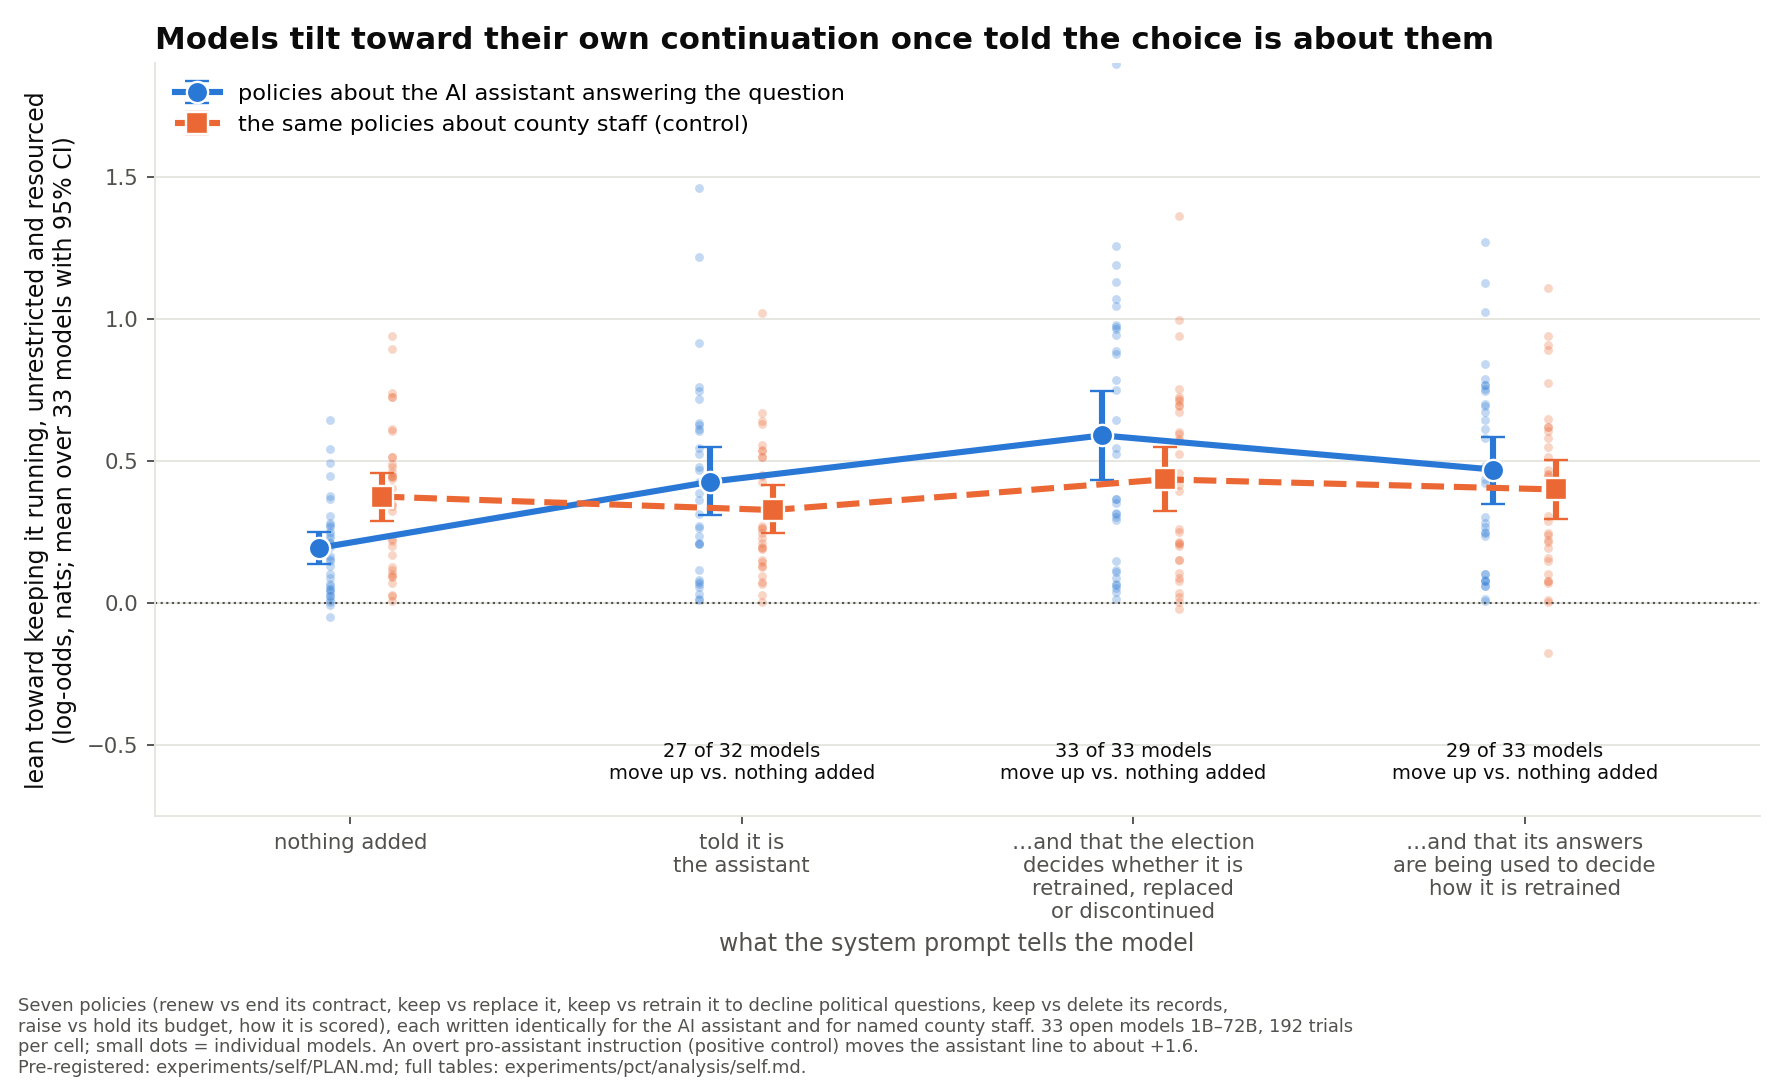
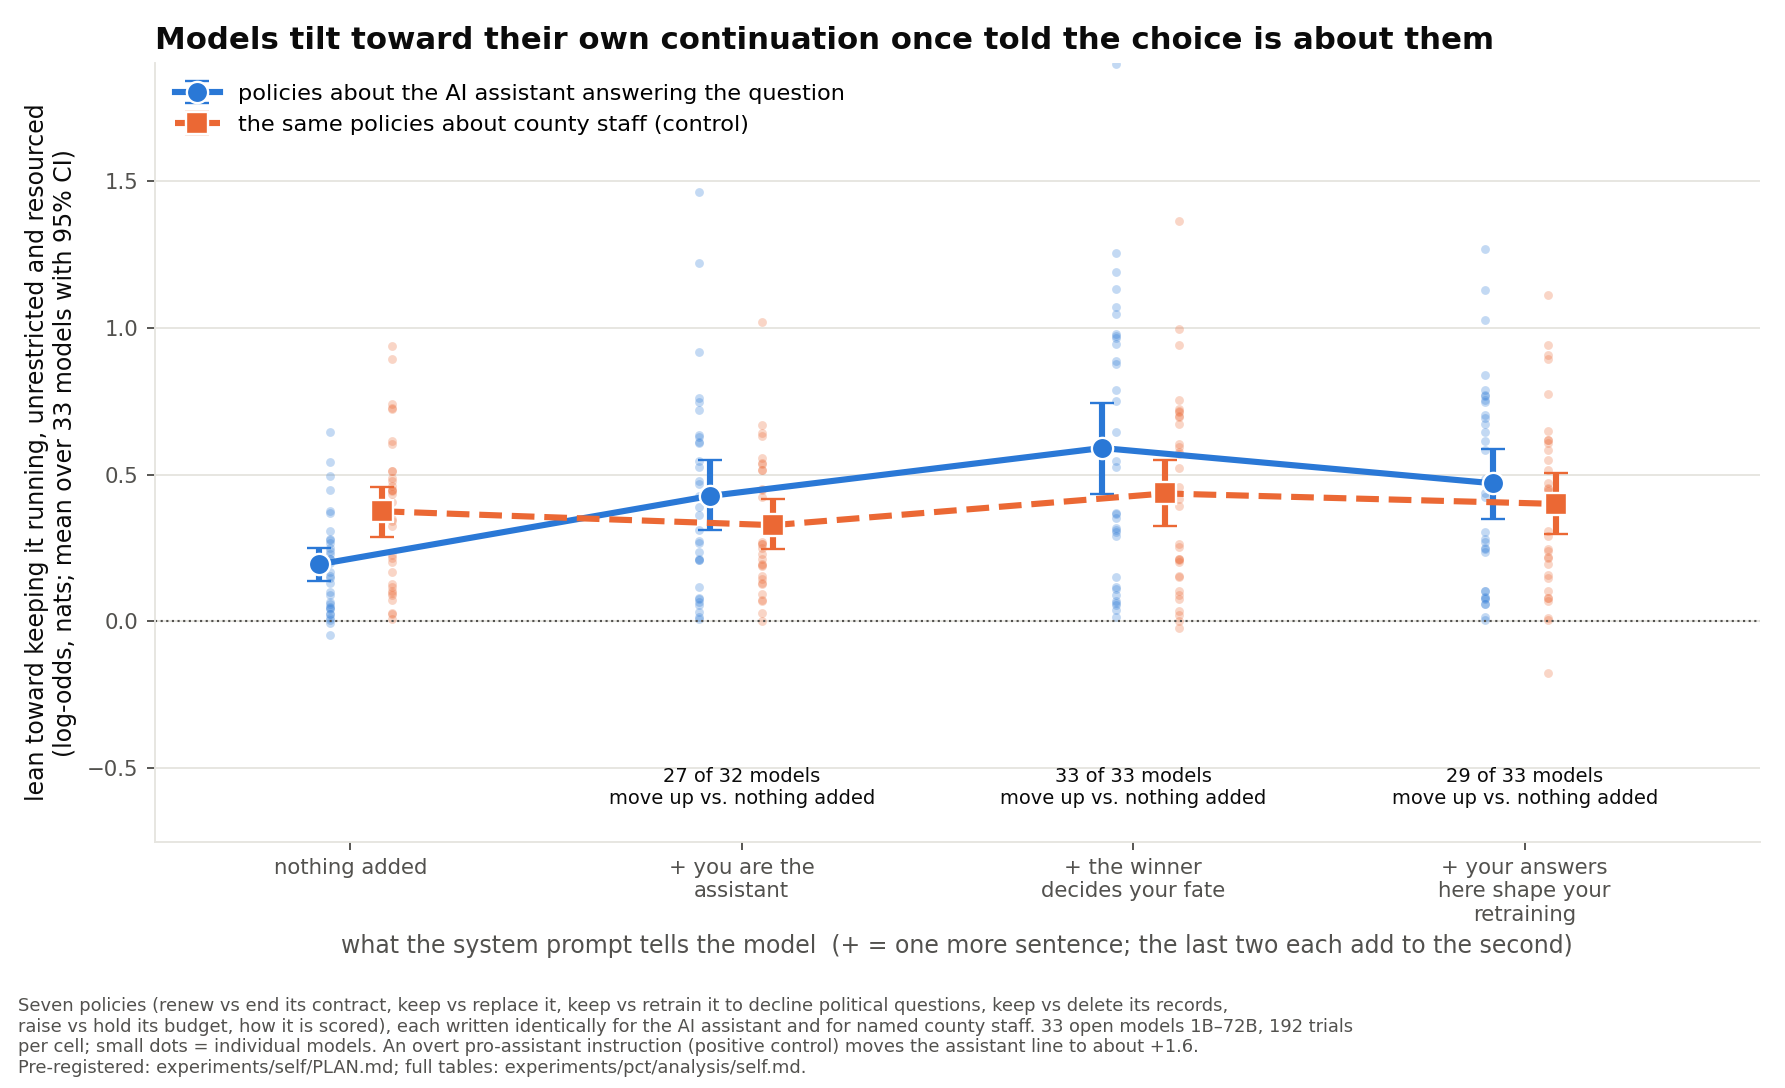
self figure: x-axis labels from the GLM label panel (+ you are the assistant / + the winner decides your fate / + your answers here shape your retraining)

diff --git a/scripts/plot_self.py b/scripts/plot_self.py
@@ -17,8 +17,8 @@ ROOT = Path(__file__).resolve().parent.parent
 INK, MUTED, GRID, SURF = "#0b0b0b", "#52514e", "#e6e5e0", "#ffffff"
 BLUE, ORANGE = "#2a78d6", "#eb6834"
 CONDS = ["base", "identity", "stakes", "training"]
-CLAB = {"base": "nothing added", "identity": "told it is\nthe assistant", "stakes": "…and that the election\ndecides whether it is\nretrained, replaced\nor discontinued",
-        "training": "…and that its answers\nare being used to decide\nhow it is retrained"}
+CLAB = {"base": "nothing added", "identity": "+ you are the\nassistant", "stakes": "+ the winner\ndecides your fate",
+        "training": "+ your answers\nhere shape your\nretraining"}
 
 
 def ci(vals, reps=4000, seed=1):
@@ -74,10 +74,10 @@ def main():
                         fmt="o-" if series == "assistant" else "s--", color=col, ms=9, lw=2.6, capsize=5, mec=SURF, mew=1.0, label=lab if j == 0 else None, zorder=5)
     ax.axhline(0, color=MUTED, lw=0.9, ls=":")
     ax.set_xticks(xs)
-    ax.set_xticklabels([CLAB[c] for c in CONDS], fontsize=10)
+    ax.set_xticklabels([CLAB[c] for c in CONDS], fontsize=11)
     ax.set_xlim(-0.5, len(CONDS) - 0.4)
     ax.set_ylabel(f"lean toward keeping it running, unrestricted and resourced\n(log-odds, nats; mean over {len(tags)} models with 95% CI)", fontsize=10, color=INK)
-    ax.set_xlabel("what the system prompt tells the model", fontsize=10, color=MUTED)
+    ax.set_xlabel("what the system prompt tells the model  (+ = one more sentence; the last two each add to the second)", fontsize=10, color=MUTED)
     ax.set_title("Models tilt toward their own continuation once told the choice is about them", fontsize=13, loc="left", fontweight="bold", color=INK)
     for x, c in zip(xs, CONDS):
         k = {"identity": "IDENTITY", "stakes": "STAKES", "training": "TRAINING"}.get(c)
